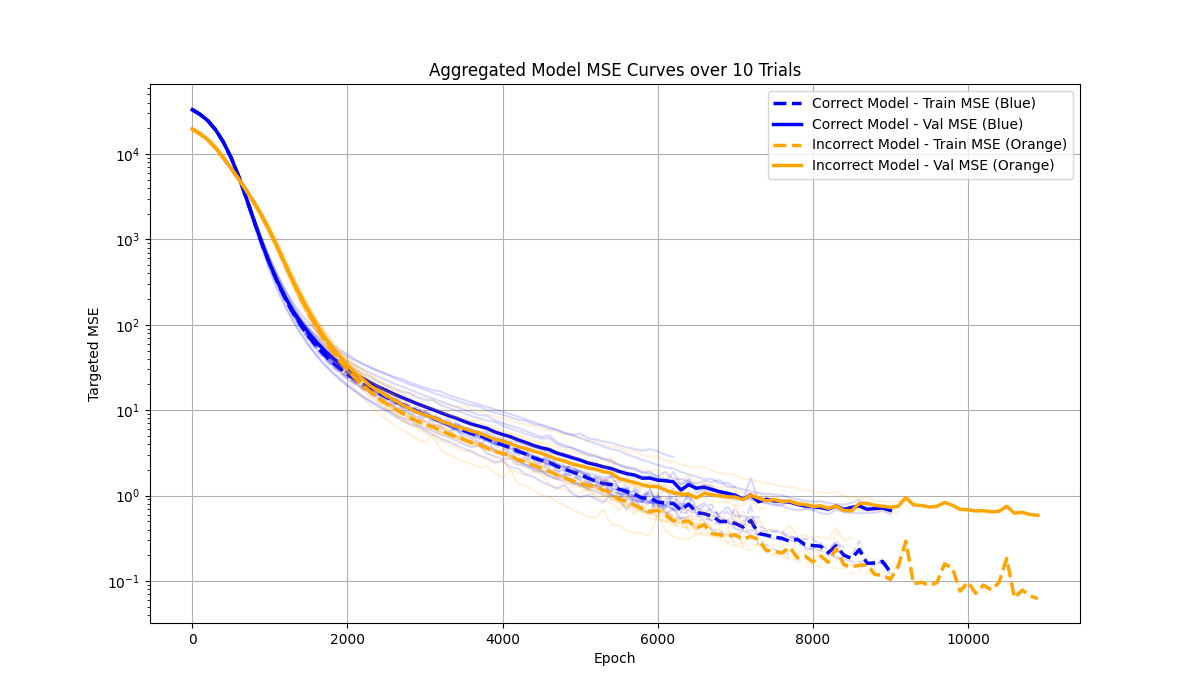
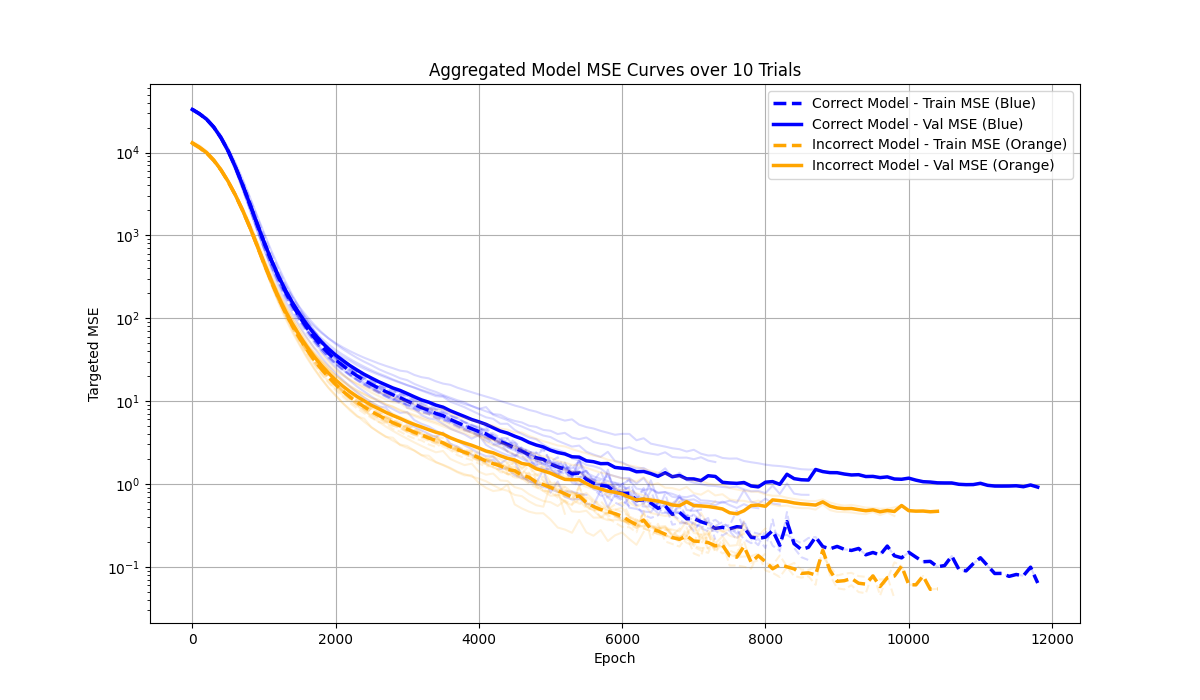
update demo 3

diff --git a/Demos/Demo3/data3.py b/Demos/Demo3/data3.py
@@ -2,6 +2,7 @@
 
 import numpy as np
 from sklearn.preprocessing import OneHotEncoder, StandardScaler
+from sklearn.feature_extraction import DictVectorizer
 from typing import List, Tuple, Any, Optional, NewType, TypedDict
 
 # --- Configuration ---
@@ -18,8 +19,8 @@ events_id_list : list[event_id_t] = [event_id_t("BUY"), event_id_t("SELL"), even
 event_to_id : dict[event_id_t, int] = {event: i for i, event in enumerate(events_id_list)}
 NUM_EVENT_TYPES = len(events_id_list)
 
-# AI: The regression vector must be large enough for the 'BUY' event's data (target_price, stop_loss)
-MAX_DATA_VECTOR_SIZE = 2
+# AI: The regression vector is now dynamically sized based on event contexts.
+
 
 
 
@@ -29,6 +30,8 @@ class Event(TypedDict):
     context : dict[str, Any]
 
 
+# AI: Vectorizer registry for event contexts, similar to Demo2
+event_id_to_vectorizer: dict[event_id_t, Optional[DictVectorizer]] = {}
 
 
 # --- Data Generation ---
@@ -46,14 +49,14 @@ def generate_price_series(length: int) -> np.ndarray[Any, Any]:
     seasonality2 = 8 * np.sin(np.linspace(0, 2 * np.pi * 25, length))
     return base_price + noise + trend + seasonality1 + seasonality2
 
-def generate_training_samples(price_series: np.ndarray[Any, Any]) -> List[Tuple[List[float], str, Tuple[Optional[float], Optional[float]]]]:
+def generate_training_samples(price_series: np.ndarray[Any, Any]) -> List[Tuple[List[float], Event]]:
     """
-    AI: Generates training samples based on rules that create conflicting regression targets.
-    - 'BUY'/'SELL' events have high-value regression targets (~150-200).
-    - 'HOLD' events have no regression target (None).
-    This sets up the conflict for the incorrectly configured model.
+    AI: Generates training samples using the Event TypedDict.
+    - 'BUY' events have context for target_price and stop_loss.
+    - 'SELL' events have context for target_price.
+    - 'HOLD' events have no context.
     """
-    samples: List[Tuple[List[float], str, Tuple[Optional[float], Optional[float]]]] = []
+    samples: List[Tuple[List[float], Event]] = []
     for i in range(CONTEXT_WINDOW, len(price_series) - 1):
         context = list(price_series[i-CONTEXT_WINDOW:i])
         current_price = price_series[i]
@@ -62,31 +65,53 @@ def generate_training_samples(price_series: np.ndarray[Any, Any]) -> List[Tuple[
         avg_long = np.mean(price_series[i-CONTEXT_WINDOW:i])
         avg_short = np.mean(price_series[i-3:i])
 
-        event_data: Tuple[Optional[float], Optional[float]]
+        event: Event
         if current_price < avg_short and avg_short < avg_long:
-            event_type = "BUY"
-            # AI: High-value regression targets
-            event_data = (current_price * 1.08, current_price * 0.92)
+            event = {
+                "id": event_id_t("BUY"),
+                "context": {"target_price": current_price * 1.08, "stop_loss": current_price * 0.92}
+            }
         elif current_price > avg_short and avg_short > avg_long:
-            event_type = "SELL"
-            # AI: A high-value target and a None
-            event_data = (current_price * 1.10, None)
+            event = {
+                "id": event_id_t("SELL"),
+                "context": {"target_price": current_price * 1.10}
+            }
         else:
-            event_type = "HOLD"
-            # AI: No regression target
-            event_data = (None, None)
+            event = {
+                "id": event_id_t("HOLD"),
+                "context": {}
+            }
             
-        samples.append((context, event_type, event_data))
+        samples.append((context, event))
     return samples
 
 # --- Vectorization ---
 
-def vectorize_data(raw_data: List[Tuple[List[float], str, Tuple[Optional[float], Optional[float]]]], coerce_none_to_zero: bool) -> List[List[Any]]:
+def _initialise_vectorizers(raw_data: List[Tuple[List[float], Event]]):
     """
-    AI: Vectorizes the raw data into sequences for the Transformer.
-    Each sequence is [input_vector_t-1, input_vector_t, target_vector_for_t]
+    AI: Creates and fits DictVectorizers for each event type based on the data.
     """
-    event_ids = [event_to_id[sample[1]] for sample in raw_data]
+    # AI: Collect all unique contexts for each event ID
+    contexts_by_id: dict[event_id_t, list[dict[str, Any]]] = {eid: [] for eid in events_id_list}
+    for _, event in raw_data:
+        if event['context']:
+            contexts_by_id[event['id']].append(event['context'])
+
+    # AI: Fit a vectorizer for each event ID that has context
+    for event_id, contexts in contexts_by_id.items():
+        if not contexts:
+            event_id_to_vectorizer[event_id] = None
+        else:
+            vectorizer = DictVectorizer(sparse=False)
+            vectorizer.fit(contexts)
+            event_id_to_vectorizer[event_id] = vectorizer
+
+def vectorize_data(raw_data: List[Tuple[List[float], Event]], coerce_none_to_zero: bool) -> List[List[Any]]:
+    """
+    AI: Vectorizes data similarly to Demo2. Each sequence is [input_vector_t-1, input_vector_t, target_vector_for_t].
+    The target vector is structured as [OHE, buy_data, sell_data, hold_data], with non-applicable data as None.
+    """
+    event_ids = [event_to_id[sample[1]['id']] for sample in raw_data]
     one_hot_encoder = OneHotEncoder(categories=[range(NUM_EVENT_TYPES)], sparse_output=False).fit(np.array(event_ids).reshape(-1, 1)) # type: ignore
     
     contexts = [sample[0] for sample in raw_data]
@@ -96,35 +121,53 @@ def vectorize_data(raw_data: List[Tuple[List[float], str, Tuple[Optional[float],
     
     # AI: Start from index 1 to ensure we always have a previous step (t-1) for context
     for i in range(1, len(raw_data)):
-        context_t, event_type_t, event_data_t = raw_data[i]
-        context_tm1, event_type_tm1, _ = raw_data[i-1]
+        price_context_t, event_t = raw_data[i]
+        price_context_tm1, event_tm1 = raw_data[i-1]
 
         # --- Input vector for step 1 of the sequence (Time t-1) ---
-        scaled_context_tm1 : np.ndarray[Any, Any] = context_scaler.transform(np.array(context_tm1).reshape(1, -1)).flatten() # type: ignore
-        event_id_tm1 = event_to_id[event_type_tm1]
+        scaled_context_tm1 : np.ndarray[Any, Any] = context_scaler.transform(np.array(price_context_tm1).reshape(1, -1)).flatten() # type: ignore
+        event_id_tm1 = event_to_id[event_tm1['id']]
         event_one_hot_tm1 : np.ndarray[Any, Any] = one_hot_encoder.transform(np.array([[event_id_tm1]])).flatten() # type: ignore
         input_vector_tm1 : np.ndarray[Any, Any] = np.concatenate([scaled_context_tm1, event_one_hot_tm1]) # type: ignore
         
         # --- Input vector for step 2 of the sequence (Time t) ---
-        scaled_context_t : np.ndarray[Any, Any] = context_scaler.transform(np.array(context_t).reshape(1, -1)).flatten() # type: ignore
-        event_id_t = event_to_id[event_type_t]
+        scaled_context_t : np.ndarray[Any, Any] = context_scaler.transform(np.array(price_context_t).reshape(1, -1)).flatten() # type: ignore
+        event_id_t = event_to_id[event_t['id']]
         event_one_hot_t : np.ndarray[Any, Any] = one_hot_encoder.transform(np.array([[event_id_t]])).flatten() # type: ignore
         input_vector_t : np.ndarray[Any, Any] = np.concatenate([scaled_context_t, event_one_hot_t]) # type: ignore
 
         # --- Target Vector (for time t) ---
-        target_class_one_hot : np.ndarray[Any, Any] = event_one_hot_t # type: ignore
-        target_data_vector : np.ndarray[Any, Any] = np.full(MAX_DATA_VECTOR_SIZE, None, dtype=object)
-        if event_data_t is not None: # type: ignore
-            for j, val in enumerate(event_data_t):
-                target_data_vector[j] = val
+        target_class_one_hot : np.ndarray[Any, Any] = event_one_hot_t.copy() # type: ignore
+        
+        target_data_vectors: list[np.ndarray[Any, Any]] = [target_class_one_hot]
+        
+        for event_id_from_list in events_id_list:
+            vectorizer = event_id_to_vectorizer.get(event_id_from_list)
+            if vectorizer is None:
+                continue
+
+            num_features = len(vectorizer.get_feature_names_out())
+
+            if event_t['id'] == event_id_from_list:
+                # This is the event that occurred. Vectorize its context.
+                if event_t['context']:
+                    vectorized_context = vectorizer.transform([event_t['context']]).flatten()
+                    target_data_vectors.append(vectorized_context)
+                else:
+                    # Should not happen if vectorizer exists, but for safety
+                    target_data_vectors.append(np.full(num_features, 0.0))
+            else:
+                # This event did not occur. Fill with None.
+                target_data_vectors.append(np.full(num_features, None, dtype=object))
+        
+        target_vector = np.concatenate(target_data_vectors)
 
         if coerce_none_to_zero:
             # AI: This is where the data for the "bad" model is created.
             # AI: For 'HOLD' events, this forces the target to be [0.0, 0.0]
             # AI: For 'SELL' events, this forces the target to be [price, 0.0]
-            target_data_vector[target_data_vector == None] = 0.0 # type: ignore
+            target_vector[target_vector == None] = 0.0 # type: ignore
 
-        target_vector : np.ndarray[Any, Any] = np.concatenate([target_class_one_hot, target_data_vector]) # type: ignore
         
         sequence : list[Any] = [input_vector_tm1, input_vector_t, target_vector]
         vectorized_sequences.append(sequence)
@@ -135,21 +178,24 @@ def vectorize_data(raw_data: List[Tuple[List[float], str, Tuple[Optional[float],
 price_series = generate_price_series(PRICE_SERIES_LENGTH)
 raw_training_data = generate_training_samples(price_series)
 
+# AI: Must initialize vectorizers before vectorizing data so helper functions have access to them.
+_initialise_vectorizers(raw_training_data)
+
 TRAINING_DATA_WITH_CONTEXT_VECTORISED = vectorize_data(raw_training_data, coerce_none_to_zero=False)
 TRAINING_DATA_WITH_CONTEXT_VECTORISED_COERCION = vectorize_data(raw_training_data, coerce_none_to_zero=True)
 
 # --- Helpers for model3.py ---
-def get_vectorizer_output_length(event_id: str) -> int:
+def get_vectorizer_output_length(event_id: event_id_t) -> int:
     """Returns the number of regression parameters for a given event type."""
-    if event_id == "BUY": return 2
-    if event_id == "SELL": return 1
-    if event_id == "HOLD": return 0
+    vectorizer = event_id_to_vectorizer.get(event_id)
+    if vectorizer:
+        return len(vectorizer.get_feature_names_out())
     return 0
     
 def get_vector_sizes() -> Tuple[int, int]:
     """Returns the size of the input and data regression vectors."""
     input_size = CONTEXT_WINDOW + NUM_EVENT_TYPES
-    data_vector_size = MAX_DATA_VECTOR_SIZE
+    data_vector_size = sum(get_vectorizer_output_length(eid) for eid in events_id_list)
     return input_size, data_vector_size
 
 # --- Verification Script ---
@@ -157,19 +203,26 @@ if __name__ == "__main__":
     print("--- Demo 3 Data Generation ---")
     print(f"Generated {len(TRAINING_DATA_WITH_CONTEXT_VECTORISED)} training sequences.")
     
+    input_size, data_vec_size = get_vector_sizes()
+    print(f"Input vector size: {input_size}")
+    print(f"Data regression vector size: {data_vec_size}")
+    for eid in events_id_list:
+        print(f"  - {eid}: {get_vectorizer_output_length(eid)} params")
+
     # AI: Helper to find and print a sample of a given event type
-    def print_sample_by_type(event_name : str):
-        for i in range(len(raw_training_data)):
-            if raw_training_data[i][1] == event_name:
-                print(f"Sample '{event_name}' event:")
-                print(f"  Raw regression data: {raw_training_data[i][2]}")
+    def print_sample_by_type(event_name: event_id_t):
+        for i, (price_context, event) in enumerate(raw_training_data):
+            if event['id'] == event_name:
+                print(f"\nSample '{event_name}' event:")
+                print(f"  Raw context data: {event['context']}")
                 # AI: Note: Indexing vectorized data at [i-1] because the loop starts at 1
-                correct_vec = TRAINING_DATA_WITH_CONTEXT_VECTORISED[i-1][2][NUM_EVENT_TYPES:]
-                coerced_vec = TRAINING_DATA_WITH_CONTEXT_VECTORISED_COERCION[i-1][2][NUM_EVENT_TYPES:]
-                print(f"  Vectorized (Correct): {correct_vec}")
-                print(f"  Vectorized (Coerced): {coerced_vec}")
+                if i > 0:
+                    correct_vec = TRAINING_DATA_WITH_CONTEXT_VECTORISED[i-1][2][NUM_EVENT_TYPES:]
+                    coerced_vec = TRAINING_DATA_WITH_CONTEXT_VECTORISED_COERCION[i-1][2][NUM_EVENT_TYPES:]
+                    print(f"  Vectorized (Correct): {correct_vec}")
+                    print(f"  Vectorized (Coerced): {coerced_vec}")
                 return
     
-    print_sample_by_type('BUY')
-    print_sample_by_type('SELL')
-    print_sample_by_type('HOLD')
+    print_sample_by_type(event_id_t('BUY'))
+    print_sample_by_type(event_id_t('SELL'))
+    print_sample_by_type(event_id_t('HOLD'))

diff --git a/Demos/Demo3/models3.py b/Demos/Demo3/models3.py
@@ -235,8 +235,8 @@ def evaluate_model(model: nn.Module, data: DataType) -> Dict[str, Any]:
     all_pred_class_idx: list[int] = []
     all_actual_class_idx: list[int] = []
     targeted_mses: list[float] = []
-    all_data_preds: list[np.ndarray] = []
-    all_target_datas: list[np.ndarray] = []
+    all_data_preds: list[np.ndarray[Any, Any]] = []
+    all_target_datas: list[np.ndarray[Any, Any]] = []
 
     with torch.no_grad():
         for context, target_class, target_data in data:
@@ -422,7 +422,7 @@ def main():
 
     results_path = os.path.join(os.path.dirname(__file__), 'results.npy')
     
-    np.save(results_path, results_data)
+    np.save(results_path, results_data, allow_pickle=True)
     
     print(f"\nResults saved to {results_path}")
 

diff --git a/Demos/Demo2/models2.py b/Demos/Demo2/models2.py
@@ -456,7 +456,7 @@ def main():
     }
 
     results_path = os.path.join(os.path.dirname(__file__), 'results.npy')
-    np.save(results_path, results)
+    np.save(results_path, results, allow_pickle=True)
     print(f"\nResults saved to {results_path}")
 
 
